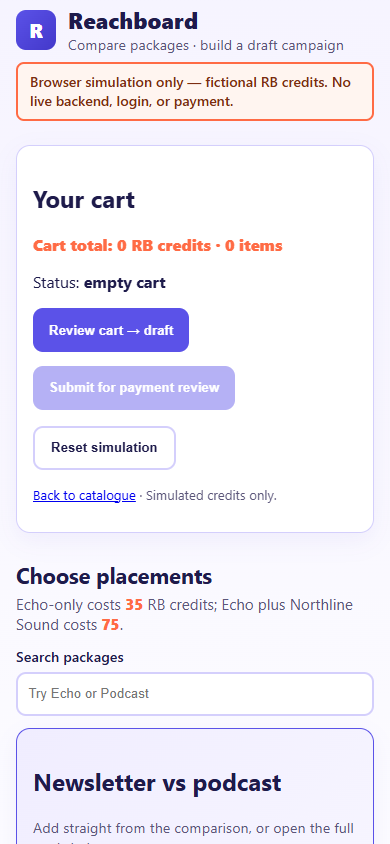
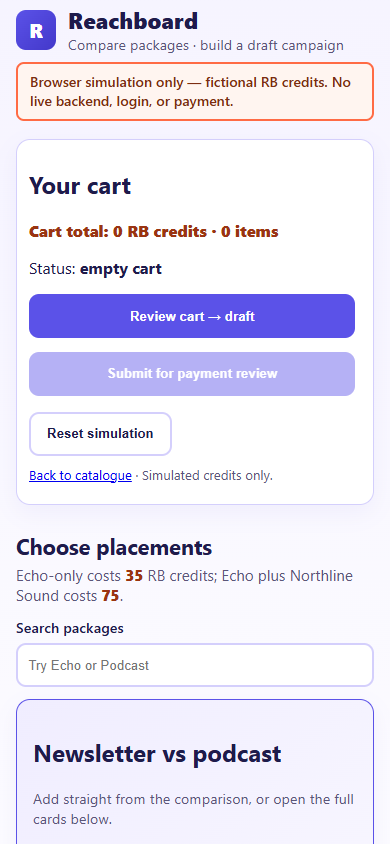
Mobile cart layout, price contrast, and viewport QA.
Darker price ink; non-sticky compact mobile cart; focus retained on add; width/overlap checks; fresh static evidence PNGs.

Changed region(s): [[0.0308, 0.2156, 0.9846, 1.0], [0.8, 0.9242, 0.9231, 0.9858]]

diff --git a/static-demo/demo.css b/static-demo/demo.css
@@ -2,6 +2,7 @@
   --violet: #5b52e8;
   --indigo: #4338ca;
   --coral: #ff6b45;
+  --price-ink: #9a3412;
   --lime: #c4f542;
   --bg: #f6f4ff;
   --panel: #ffffff;
@@ -115,7 +116,8 @@ input {
   margin: 0.35rem 0 0;
   min-height: 44px;
 }
-.total { color: var(--coral); font-weight: 800; }
+.total, .price-ink { color: var(--price-ink); font-weight: 800; }
+.accent-coral { color: var(--coral); }
 .muted { color: var(--muted); font-size: 0.9rem; }
 .fine-print { font-size: 0.82rem; color: var(--muted); margin-top: 0.75rem; }
 button:disabled { opacity: 0.45; cursor: not-allowed; }
@@ -124,6 +126,20 @@ button:disabled { opacity: 0.45; cursor: not-allowed; }
 #cartLines, #snapshotLines { padding-left: 1.1rem; margin: 0.35rem 0; }
 @media (max-width: 768px) {
   .layout { grid-template-columns: 1fr; }
-  .cart-panel { order: -1; position: sticky; top: 0; z-index: 2; }
+  .cart-panel {
+    order: -1;
+    position: static;
+    z-index: 1;
+  }
+  .cart-panel .card {
+    padding: 0.55rem 0.75rem;
+    margin: 0.35rem 0 0.65rem;
+  }
+  #cartLines { max-height: 4.5rem; overflow: auto; font-size: 0.88rem; }
+  .sim-actions button { flex: 1 1 100%; }
   body { padding-top: 0.35rem; }
+}
+@media (max-width: 480px) {
+  #cartLines { display: none; }
+  .cart-panel .fine-print { margin-top: 0.35rem; }
 }

diff --git a/static-demo/app.js b/static-demo/app.js
@@ -118,6 +118,8 @@ function addSlug(slug) {
   renderCart();
   renderPackages(document.getElementById("filter").value);
   renderCompare();
+  const btn = document.querySelector(`[data-add="${slug}"]:not([disabled])`);
+  if (btn) btn.focus({ preventScroll: true });
 }
 
 function renderPackages(filter) {
